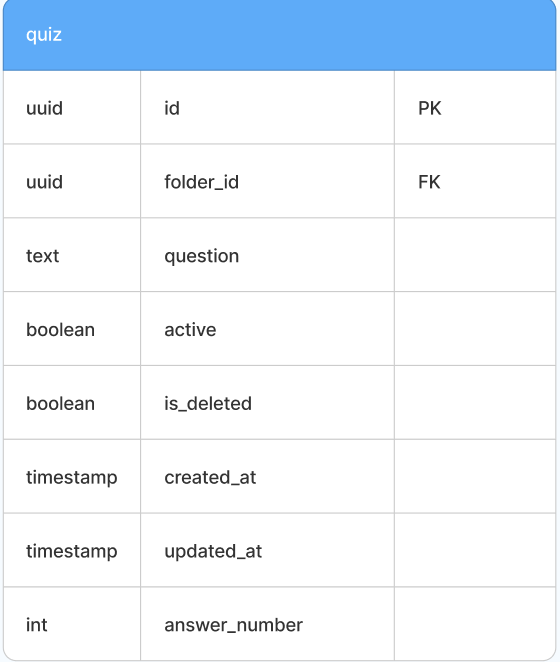
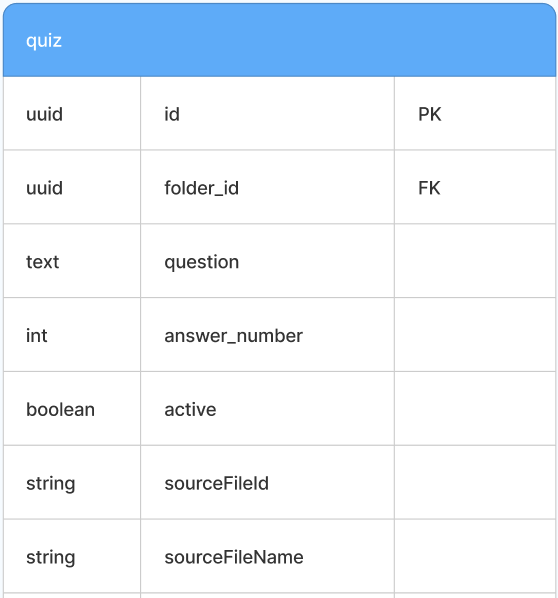
03 설계 정리

diff --git a/docs/software-engineering/Chapter 11/03 설계.md b/docs/software-engineering/Chapter 11/03 설계.md
@@ -9,9 +9,13 @@
 |---|---|
 | 클래스 | 테이블 |
 | 멤버 변수 | 테이블 칼럼 |
-| 멤버 함수 | 프로그램 함수 |
 
 매핑 이후 **정규화**, **인덱싱** 과정을 수행
+
+
+![](clazz.png){ width=250, height=350 }
+![](dm.png){ width=250, height=350 }
+
 
 ---
 
@@ -19,13 +23,17 @@
 
 ## 인터페이스 설계 절차
 
-| 단계 | 내용 |
-|---|---|
-| (1) | 사용 시나리오 개발 |
-| (2) | 인터페이스 구조 설계 |
-| (3) | 인터페이스 표준 템플릿 개발 |
-| (4) | 인터페이스 프로토타입 개발 |
-| (5) | 인터페이스 평가 |
+| 단계 | 내용 | 설명 |
+|---|---| --- |
+| (1) | 사용 시나리오 개발 | 유스 케이스 다이어그램 시나리오와 유사 형태로 표현 |
+| (2) | 인터페이스 구조 설계 | 윈도우 내비게이션 다이어그램 작성 |
+| (3) | 인터페이스 표준 템플릿 개발 | 화면 레이어웃 설계 |
+| (4) | 인터페이스 프로토타입 개발 | 인터페이스 프로토타입 개발|
+| (5) | 인터페이스 평가 | 프로토파입 평가 |
+
+
+![](wnd.png){ width=600, height=800 }
+
 
 ---
 
@@ -36,6 +44,8 @@
 ## 배치 다이어그램 작성
 
 > 어떤 패키지를 클라이언트에 배치하고 어떤 패키지를 서버에 배치할지 정의
+
+![](deploy.png){ width=600, height=800 }
 
 ### 고려하는 아키텍처 환경
 
@@ -53,7 +63,7 @@
 - 개발 용이성
 - 보안 통제
 - 확장성
-- 추가로 **비기능적 요구사항** 고려
+- 비기능적 요구사항 
 
 
 ## 기술 환경 명세
@@ -65,13 +75,9 @@
 
 ## 🔑 최종 정리 
 
-3계층 아키텍처로 나눈 각 계층을 실제로 채우는 단계
-
 하위 계층인 **DM**은 **자료 구조 설계**<br>
-클래스 → 테이블, 멤버 변수 → 칼럼, 멤버 함수 → 프로그램 함수로 매핑한 뒤 정규화와 인덱싱을 수행
 
 상위 계층인 **HCI**는 **사용자 인터페이스 설계**<br>
-시나리오 → 구조 → 표준 템플릿 → 프로토타입 → 평가 순으로 진행하고, 도메인 클래스를 인터페이스 클래스로 정의
 
 이후 **물리 구조 설계**<br>
 패키지를 클라이언트와 서버 중 어디에 둘지 배치 다이어그램으로 정하고, 서버 기반 등의 아키텍처 중 적절한 모델을 선택

diff --git a/docs/software-engineering/Chapter 11/02 패키지 다이어그램.md b/docs/software-engineering/Chapter 11/02 패키지 다이어그램.md
@@ -37,9 +37,9 @@
  | Problem Domain | 업무 로직을 담는 도메인 클래스 | 분석 단계 클래스 다이어그램에서 도출 |
 | Data Management | DB 테이블에 대응하는 데이터 클래스 | 테이블, 영속성 처리 클래스 |
 
-![](hci.png){ width=600, height=800 }
+![](hci.png){ width=300, height=400 }
 
-![](dm.png){ width=600, height=800 }
+![](dm.png){ width=300, height=400 }
 
 ---
 
